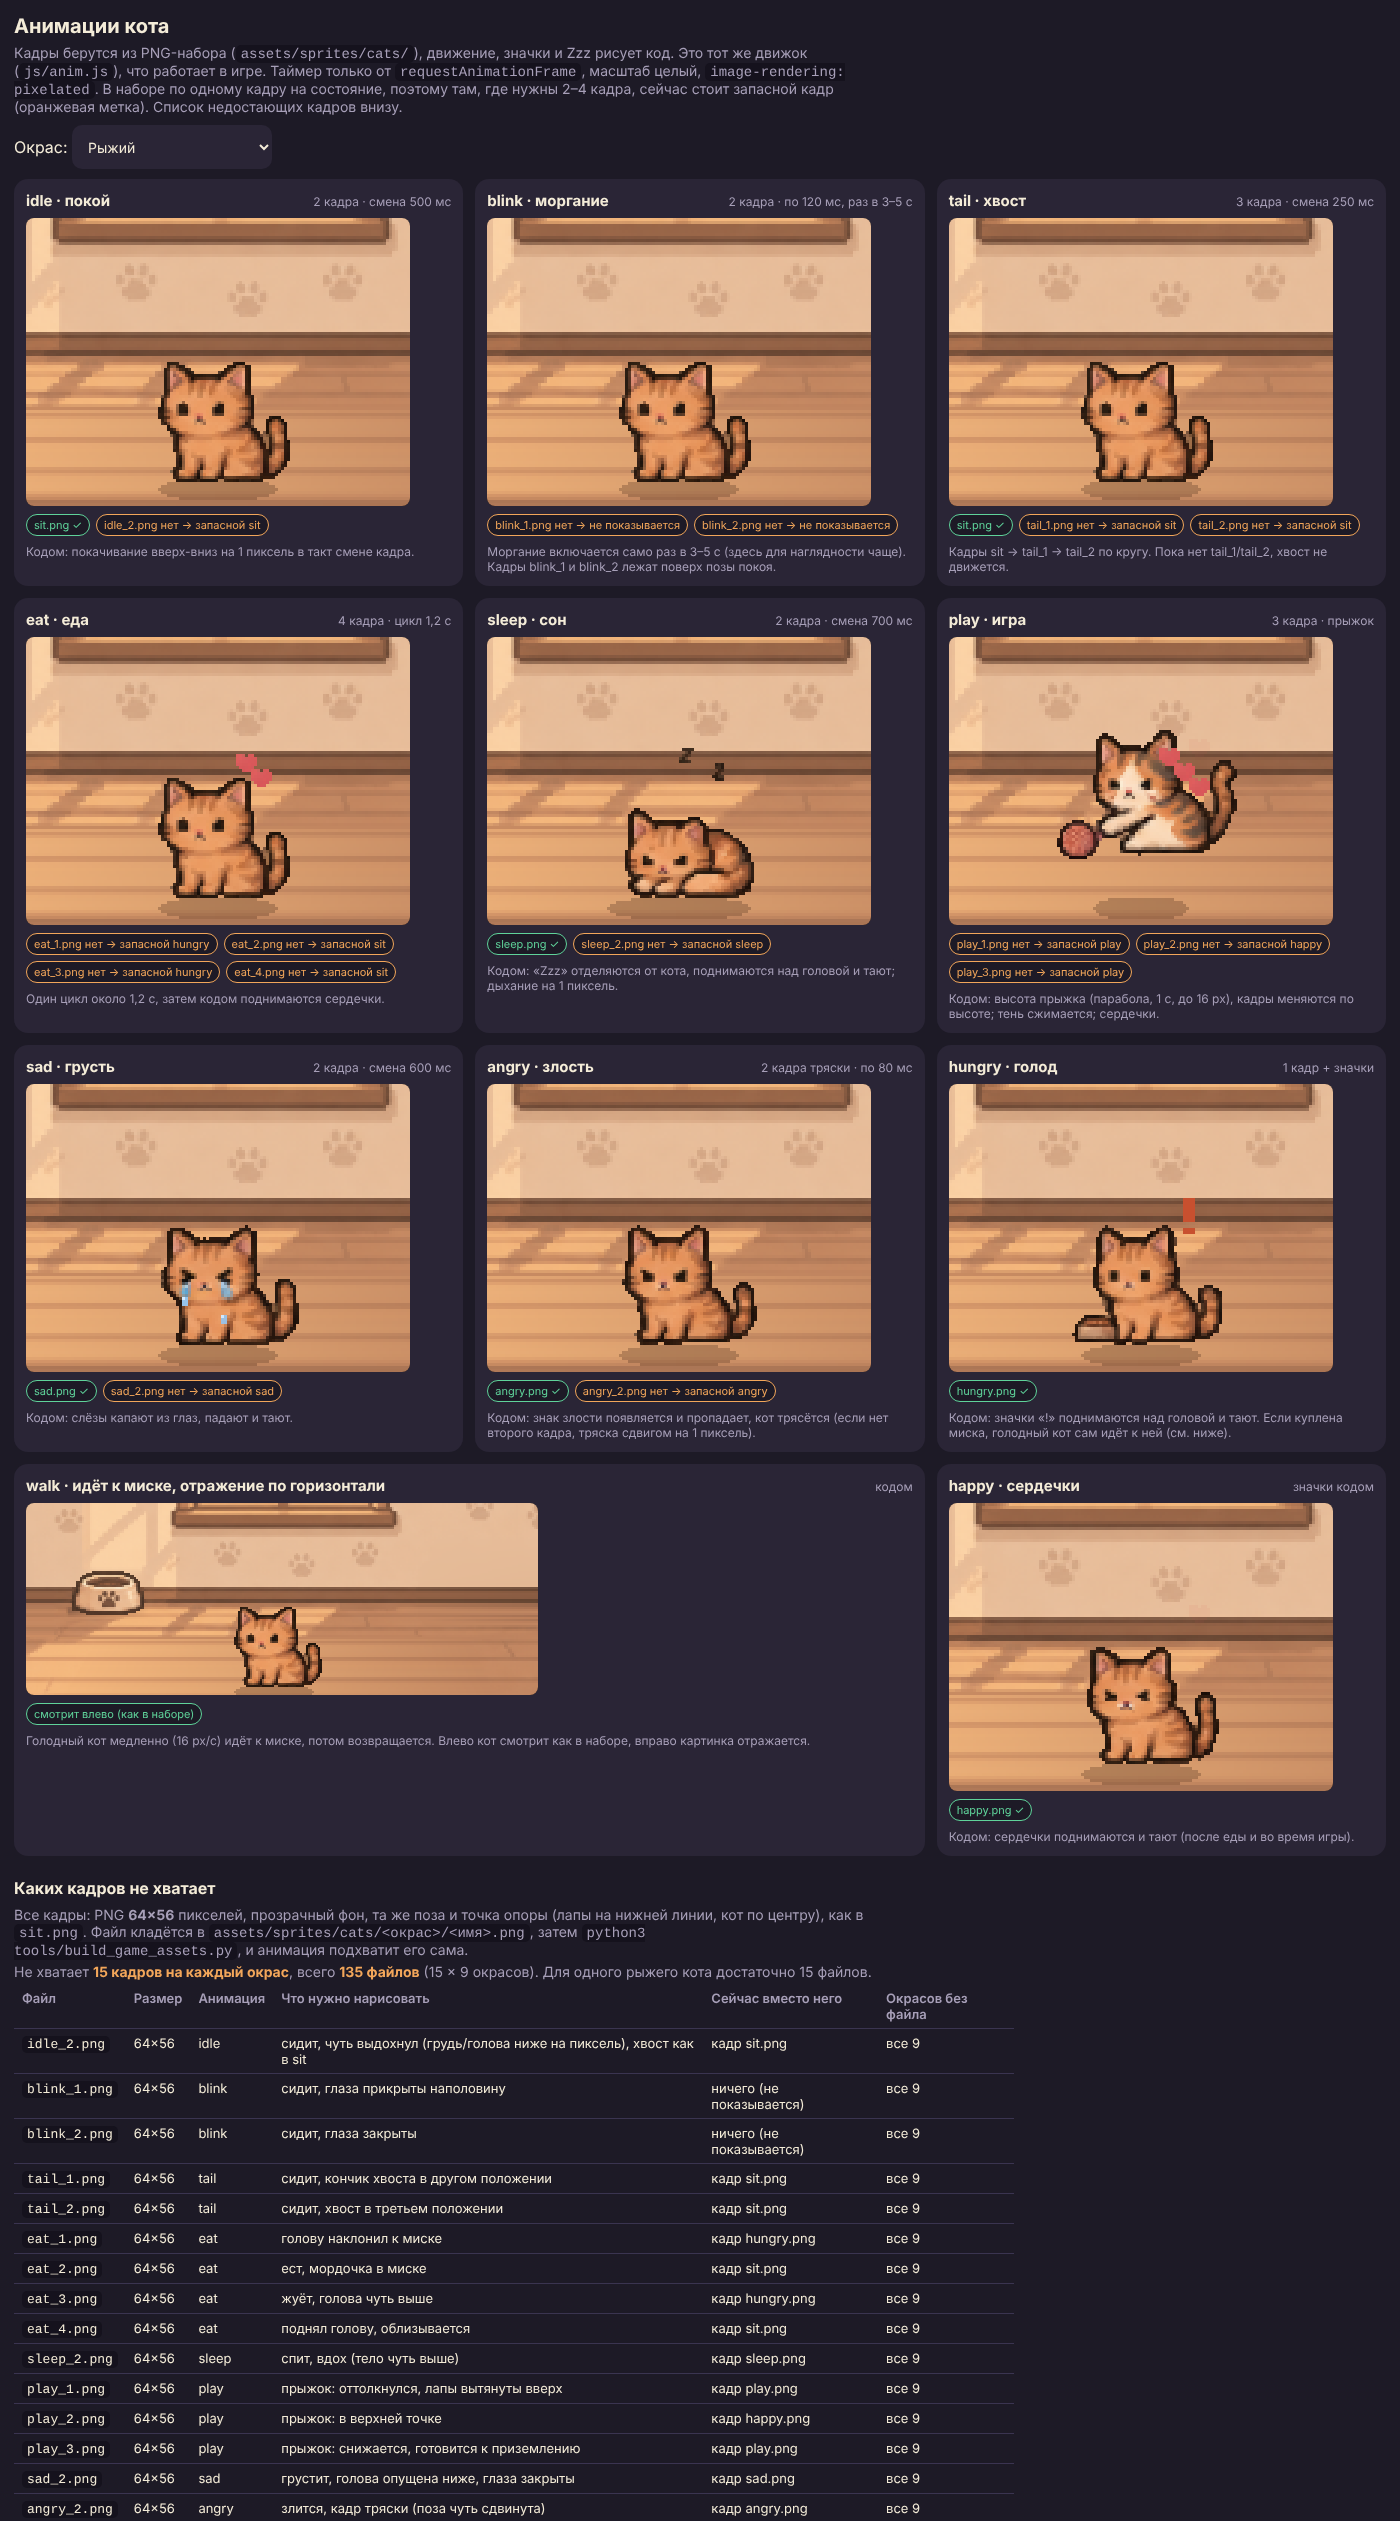
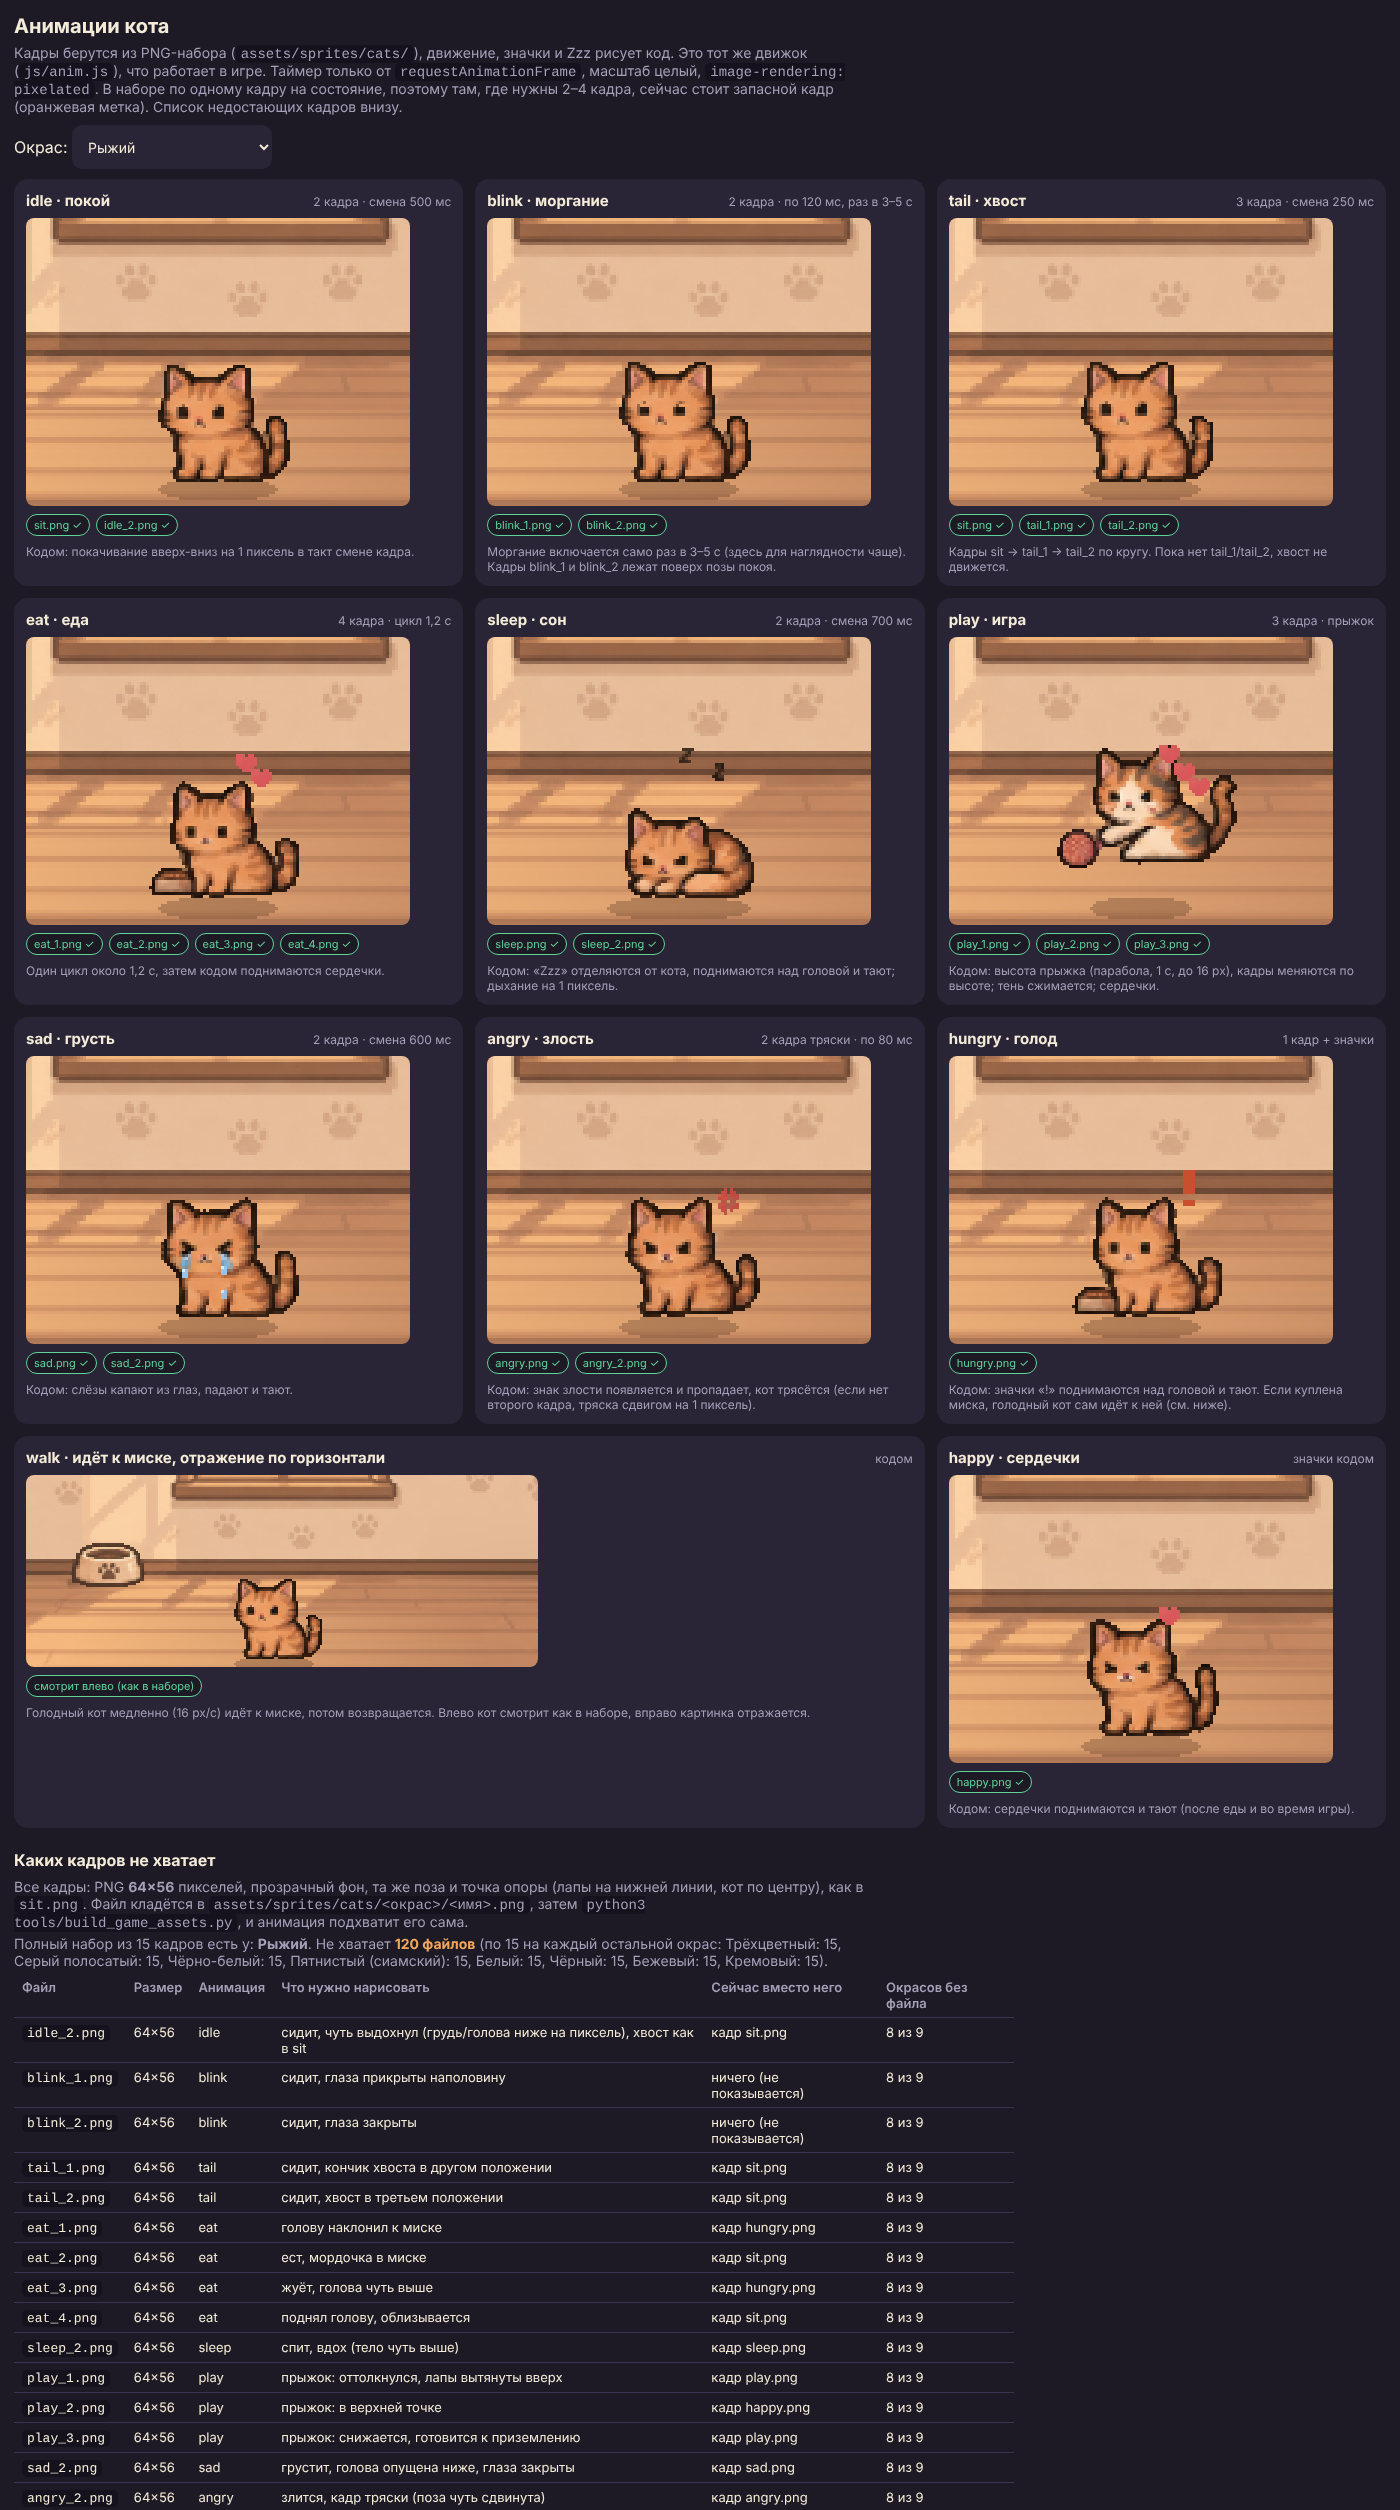
Недостающие кадры анимаций для рыжего (15 шт., собраны из его кадров), страница анимаций обновлена
Claude-Session: https://claude.ai/code/session_01Qao8M8JoHe6UePoZCqr7mk

diff --git a/pixel-pet/assets/game/data.js b/pixel-pet/assets/game/data.js
@@ -1,2 +1,2 @@
 // СГЕНЕРИРОВАНО tools/build_game_assets.py — руками не править
[2 lines of base64/hex data omitted]

diff --git a/pixel-pet/animations-preview.html b/pixel-pet/animations-preview.html
@@ -96,7 +96,10 @@ function report() {
     td[4].textContent = x.fallback ? 'кадр ' + x.fallback + '.png' : 'ничего (не показывается)';
     td[5].textContent = x.missing.length === coats.length ? 'все ' + coats.length : x.missing.length + ' из ' + coats.length; tb.appendChild(tr);
   });
-  document.getElementById('sum').innerHTML = 'Не хватает <b class="warn">' + D.extra_names.length + ' кадров на каждый окрас</b>, всего <b class="warn">' + n + ' файлов</b> (' + D.extra_names.length + ' × ' + coats.length + ' окрасов). Для одного рыжего кота достаточно ' + D.extra_names.length + ' файлов.';
+  var per = coats.map(function (c) { var m = D.extra_names.filter(function (id) { return !S.has(c, id); }).length; return m ? D.coats[c] + ': ' + m : null; }).filter(Boolean);
+  var done = coats.filter(function (c) { return D.extra_names.every(function (id) { return S.has(c, id); }); }).map(function (c) { return D.coats[c]; });
+  document.getElementById('sum').innerHTML = (done.length ? 'Полный набор из ' + D.extra_names.length + ' кадров есть у: <b>' + done.join(', ') + '</b>. ' : '') +
+    (n ? 'Не хватает <b class="warn">' + n + ' файлов</b> (по ' + D.extra_names.length + ' на каждый остальной окрас: ' + per.join(', ') + ').' : 'Все кадры на месте.');
 }
 var sel = document.getElementById('coat');
 Object.keys(D.coats).forEach(function (c) { var o = document.createElement('option'); o.value = c; o.textContent = D.coats[c]; sel.appendChild(o); });

diff --git a/pixel-pet/tools/make_orange_frames.py b/pixel-pet/tools/make_orange_frames.py
@@ -1,0 +1,92 @@
+"""Недостающие кадры анимаций для рыжего кота (assets/sprites/cats/orange/*.png, 64×56).
+Нарисованы не с нуля, а собраны из уже вырезанных кадров рыжего: сдвиги головы и хвоста, закрытые глаза,
+«сжатие и растяжение» для прыжка. Тот же пиксель-арт, те же цвета, те же размеры и точка опоры."""
+import numpy as np
+from PIL import Image
+
+D = '/home/user/The-first-/pixel-pet/assets/sprites/cats/orange/'
+def load(n): return np.array(Image.open(D + n + '.png').convert('RGBA'))
+def save(a, n): Image.fromarray(a.astype(np.uint8), 'RGBA').save(D + n + '.png'); print('записан', n)
+
+def shift_box(a, box, dx, dy):
+    """сдвигает часть кадра (box = x0,y0,x1,y1, не включая x1,y1) и накладывает поверх остального"""
+    x0, y0, x1, y1 = box; out = a.copy(); part = a[y0:y1, x0:x1].copy()
+    out[y0:y1, x0:x1] = 0
+    H, W = a.shape[:2]
+    for y in range(part.shape[0]):
+        for x in range(part.shape[1]):
+            if part[y, x, 3]:
+                ny, nx = y0 + y + dy, x0 + x + dx
+                if 0 <= ny < H and 0 <= nx < W: out[ny, nx] = part[y, x]
+    return out
+
+def rows_resample(a, y0, y1, delta):
+    """растягивает (delta>0) или сжимает (delta<0) кадр по вертикали на delta строк, низ остаётся на месте"""
+    H = a.shape[0]; rows = list(range(y0, y1 + 1)); n = len(rows)
+    idx = [rows[i] for i in range(n)]
+    if delta > 0:                                   # дублируем строки равномерно по внутренней части
+        pos = [int(n * (k + 1) / (delta + 1)) for k in range(delta)]
+        new = []
+        for i, r in enumerate(rows):
+            new.append(r)
+            if i in pos: new.append(r)
+    else:                                           # удаляем строки равномерно
+        pos = [int(n * (k + 1) / (-delta + 1)) for k in range(-delta)]
+        new = [r for i, r in enumerate(rows) if i not in pos]
+    out = np.zeros_like(a); top = y1 + 1 - len(new)
+    for j, r in enumerate(new):
+        if 0 <= top + j < H: out[top + j] = a[r]
+    return out
+
+sit, hungry, sleep, sad, angry, play = (load(n) for n in ('sit', 'hungry', 'sleep', 'sad', 'angry', 'play'))
+HEAD = (10, 10, 46, 34)                              # голова сидящего кота (x0, y0, x1, y1)
+
+# idle_2: чуть выдохнул — голова на пиксель ниже
+save(shift_box(sit, HEAD, 0, 1), 'idle_2')
+
+# blink_1 / blink_2: глаза (левый x19..21, правый x32..34; y27..29) прикрыты и закрыты
+def eyes(a, rows_off):
+    o = a.copy()
+    for ex in (19, 32):
+        fur = a[31, ex + 1].copy()
+        for y in rows_off:
+            for x in range(ex, ex + 3): o[y, x] = fur
+    return o
+save(eyes(sit, [27]), 'blink_1')
+save(eyes(sit, [27, 28]), 'blink_2')
+
+# tail_1 / tail_2: хвост (x ≥ 47, y 33..50) изгибается — кончик уходит в сторону
+def tail(a, k):
+    o = a.copy(); y_top, y_bot = 33, 44
+    for y in range(y_top, y_bot):
+        dx = int(round(k * (y_bot - y) / (y_bot - y_top)))
+        if dx == 0: continue
+        row = a[y, 47:].copy(); o[y, 47:] = 0
+        for x in range(row.shape[0]):
+            if row[x, 3]:
+                nx = 47 + x + dx
+                if 0 <= nx < 64: o[y, nx] = row[x]
+    return o
+save(tail(sit, 1), 'tail_1'); save(tail(sit, -1), 'tail_2')
+
+# eat_1…4: кивает головой вниз и влево, к миске (кадр hungry — кот рядом с миской)
+HH = (10, 10, 46, 34)
+for i, (dx, dy) in enumerate([(-1, 2), (-2, 4), (-1, 3), (0, 1)], 1):
+    save(shift_box(hungry, HH, dx, dy), 'eat_%d' % i)
+
+# sleep_2: вдох — верхняя часть «буханки» на пиксель выше
+o = sleep.copy()
+for y in range(22, 38): o[y] = sleep[y + 1]
+o[38] = sleep[38]
+save(o, 'sleep_2')
+
+# play_1…3: прыжок — растяжение при подъёме, лёгкое растяжение в верхней точке, сжатие при приземлении
+save(rows_resample(play, 11, 53, 3), 'play_1')
+save(rows_resample(play, 11, 53, 1), 'play_2')
+save(rows_resample(play, 11, 53, -2), 'play_3')
+
+# sad_2: голова ниже на 2 пикселя
+save(shift_box(sad, HEAD, 0, 2), 'sad_2')
+
+# angry_2: тряска — голова на пиксель левее и ниже
+save(shift_box(angry, (10, 10, 44, 34), -1, 1), 'angry_2')

diff --git a/pixel-pet/tools/make_anim_preview.py b/pixel-pet/tools/make_anim_preview.py
@@ -98,7 +98,10 @@ function report() {
     td[4].textContent = x.fallback ? 'кадр ' + x.fallback + '.png' : 'ничего (не показывается)';
     td[5].textContent = x.missing.length === coats.length ? 'все ' + coats.length : x.missing.length + ' из ' + coats.length; tb.appendChild(tr);
   });
-  document.getElementById('sum').innerHTML = 'Не хватает <b class="warn">' + D.extra_names.length + ' кадров на каждый окрас</b>, всего <b class="warn">' + n + ' файлов</b> (' + D.extra_names.length + ' × ' + coats.length + ' окрасов). Для одного рыжего кота достаточно ' + D.extra_names.length + ' файлов.';
+  var per = coats.map(function (c) { var m = D.extra_names.filter(function (id) { return !S.has(c, id); }).length; return m ? D.coats[c] + ': ' + m : null; }).filter(Boolean);
+  var done = coats.filter(function (c) { return D.extra_names.every(function (id) { return S.has(c, id); }); }).map(function (c) { return D.coats[c]; });
+  document.getElementById('sum').innerHTML = (done.length ? 'Полный набор из ' + D.extra_names.length + ' кадров есть у: <b>' + done.join(', ') + '</b>. ' : '') +
+    (n ? 'Не хватает <b class="warn">' + n + ' файлов</b> (по ' + D.extra_names.length + ' на каждый остальной окрас: ' + per.join(', ') + ').' : 'Все кадры на месте.');
 }
 var sel = document.getElementById('coat');
 Object.keys(D.coats).forEach(function (c) { var o = document.createElement('option'); o.value = c; o.textContent = D.coats[c]; sel.appendChild(o); });
